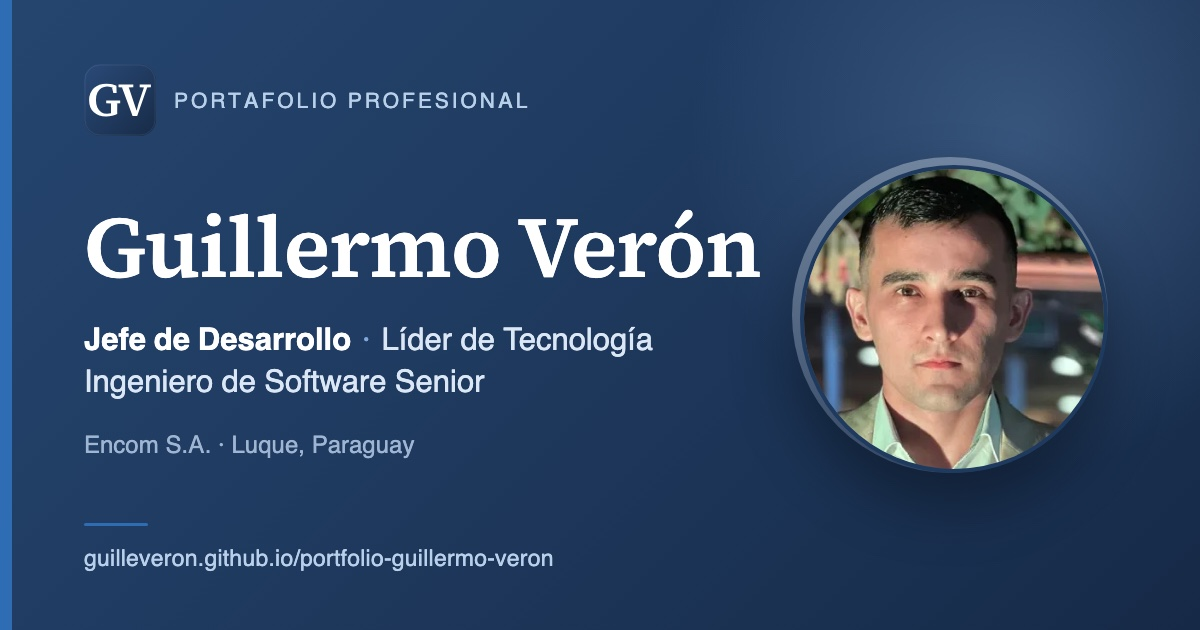
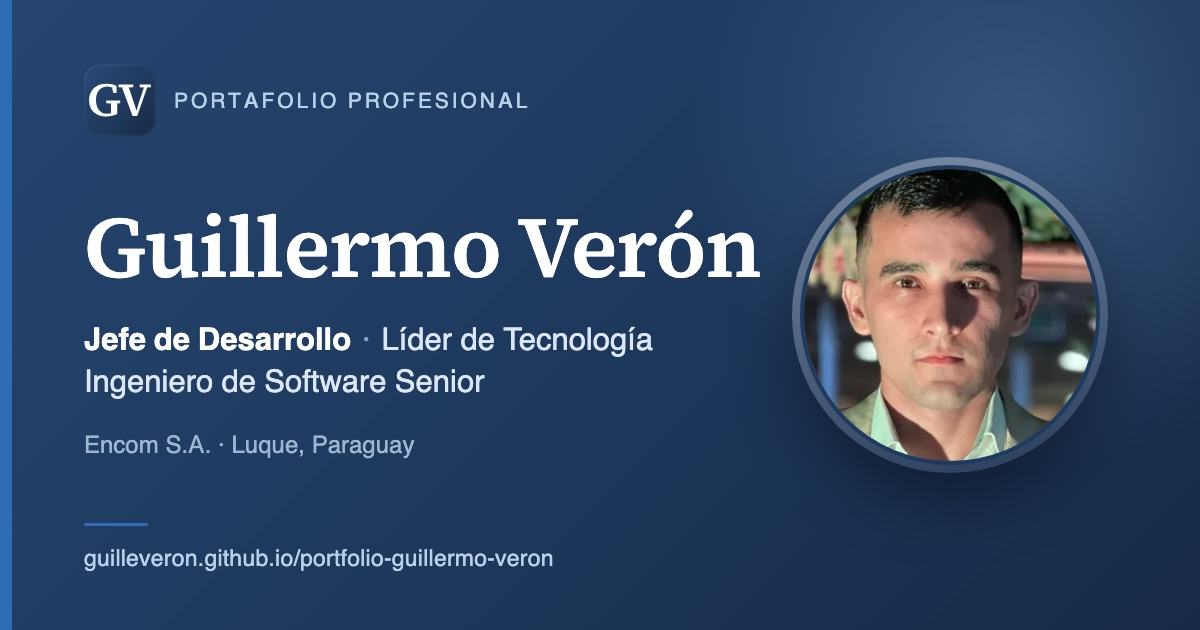
E-commerce v2: capturas de tienda y producto con datos de prueba; foto centrada en la og-image
Reemplaza el panel de resumen vacío por la portada y una ficha de producto de una tienda
de prueba (carrusel, delivery/retiro, galería, descuento, sugerencias). La og-image recorta
la foto con la cara centrada en el círculo.

Changed region(s): [[0.6783, 0.2714, 0.925, 0.754]]

diff --git a/data/projects.es.ts b/data/projects.es.ts
@@ -233,8 +233,9 @@ export const projectsEs: Project[] = [
       outcome: 'Nueva base para las tiendas online de la plataforma, con despliegue independiente del panel y capacidad de personalización por comercio.',
     },
     images: [
+      { src: '/img/projects/ecommerce-tienda.webp', alt: 'Portada de una tienda gastronómica de prueba: carrusel, delivery o retiro y carta con fotos', width: 1400, height: 875 },
+      { src: '/img/projects/ecommerce-producto.webp', alt: 'Ficha de producto con galería, descuento, sugerencia de agregado y opciones de envío (datos de prueba)', width: 1400, height: 875 },
       { src: '/img/projects/ecommerce-editor.webp', alt: 'Editor de temas del e-commerce con vista previa en vivo (tienda de demostración)', width: 1400, height: 875 },
-      { src: '/img/projects/ecommerce-resumen.webp', alt: 'Panel de resumen de una tienda de demostración', width: 1400, height: 875 },
     ],
   },
   {

diff --git a/data/projects.en.ts b/data/projects.en.ts
@@ -229,8 +229,9 @@ export const projectsEn: Project[] = [
       outcome: "A new foundation for the platform's online stores, deployed independently from the panel and customisable per merchant.",
     },
     images: [
+      { src: '/img/projects/ecommerce-tienda.webp', alt: 'Home page of a test food store: carousel, delivery or pickup, and a menu with photos', width: 1400, height: 875 },
+      { src: '/img/projects/ecommerce-producto.webp', alt: 'Product page with gallery, discount, add-on suggestion and shipping options (test data)', width: 1400, height: 875 },
       { src: '/img/projects/ecommerce-editor.webp', alt: 'E-commerce theme editor with live preview (demo store)', width: 1400, height: 875 },
-      { src: '/img/projects/ecommerce-resumen.webp', alt: 'Overview dashboard of a demo store', width: 1400, height: 875 },
     ],
   },
   {
